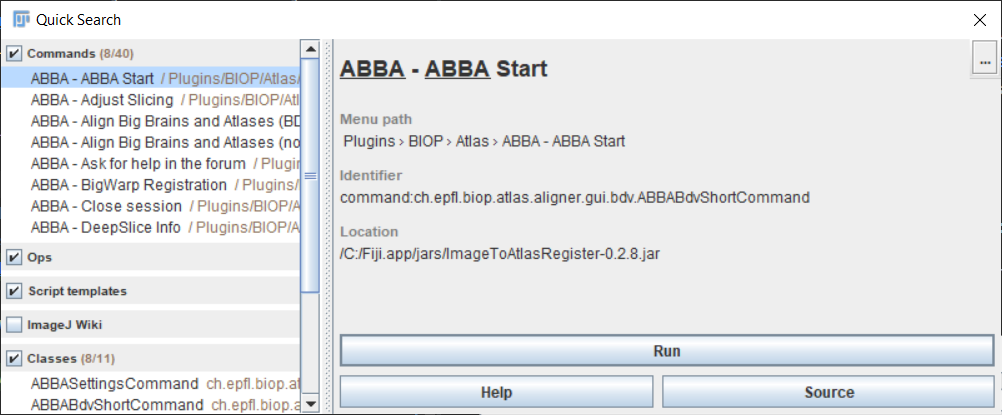
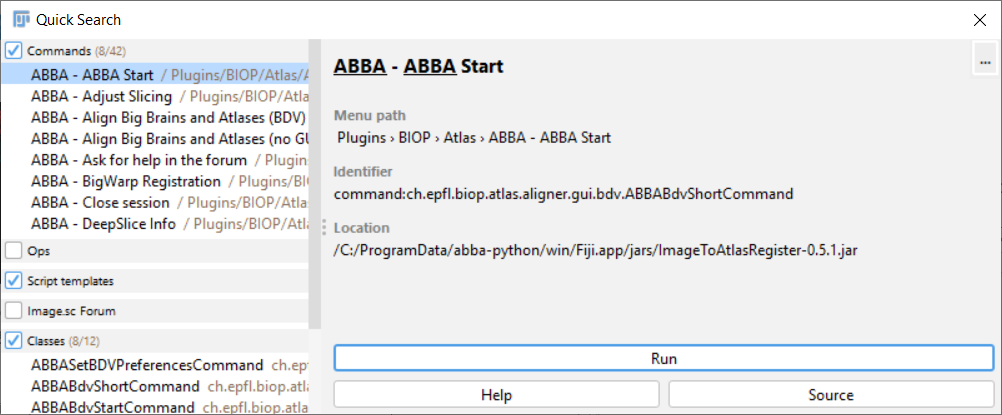
doc fix

diff --git a/installation.md b/installation.md
@@ -28,7 +28,16 @@ All Oses (Win, Mac, Linux):
 My advice : on windows, use the installer. Otherwise, use automated bash scripts. Troubleshoot issues by reading the manual installation.
 ## Standalone installer
 
-A [windows installer](https://github.com/NicoKiaru/ABBA-Python/releases/tag/v0.5.1-win) exists, which is still in its early phase of testing (released March 2023). This is by far the easiest way to install ABBA. It also brings the advantage of including DeepSlice and BrainGlobe directly into ABBA, because it ships a suitable conda environment in parallel with Fiji. 
+A [windows installer](https://github.com/NicoKiaru/ABBA-Python/releases/tag/v0.5.1-win) exists, which is still in its early phase of testing (released March 2023). This is by far the easiest way to install ABBA. It also brings the advantage of including DeepSlice and BrainGlobe directly into ABBA, because it ships a suitable conda environment in parallel with Fiji, and uses [PyImageJ](https://pyimagej.readthedocs.io/en/latest/) to communicate between both.
+
+This installer do not install QuPath and its extensions. To install these:
+
+* Install [Git for Windows](https://gitforwindows.org/) with standard options (just hit next on the installer)
+* Download the [install scripts](https://github.com/BIOP/biop-bash-scripts/archive/refs/heads/main.zip) that comes from [this repository](https://github.com/BIOP/biop-bash-scripts)
+* Unzip them
+* Double click on the script `full_install_abba.sh`
+* It is recommended to choose `C:/` as the install path
+* Wait until the script ends
 
 ## Automated installation
 
@@ -38,7 +47,7 @@ You will need a decent internet connection! Several gigabytes need to be downloa
 ### For Windows
 
 * Install [Git for Windows](https://gitforwindows.org/) with standard options (just hit next on the installer)
-* Download the [install scripts](https://github.com/BIOP/biop-bash-scripts/archive/refs/heads/main.zip)
+* Download the [install scripts](https://github.com/BIOP/biop-bash-scripts/archive/refs/heads/main.zip) that comes from [this repository](https://github.com/BIOP/biop-bash-scripts)
 * Unzip them
 * Double click on the script `full_install_abba.sh`
 * It is recommended to choose `C:/` as the install path
@@ -159,11 +168,15 @@ These are the two atlases present by default. If this is the first time you laun
 
 ![Allen atlas download progress bar](./assets/img/fiji_atlas_download_progress_bar.png)
 
-The allen brain atlas and associated files will be cached in your user folder under the directory `\cached_atlas`. These data are directly  downloaded from zenodo repositories:
+The allen brain atlas and associated files will be cached:
+* in your user folder under the directory `\cached_atlas` (Allen Brain CCFv3 and Waxholm Rat v4) (in `C:\ProgramData\abba-atlas` if you used the windows installer)
+* in your user folder under the directory `\.brainglobe` for brainglobe atlases
+
+For non-brainglobe atlases, data are downloaded from zenodo repositories:
 - [Mouse atlas repository](https://zenodo.org/record/4486659#.YnfL81RBziE)
 - [Rat atlas repository](https://zenodo.org/record/5644162#.YZrUnroo8uU)
 
-If the initial atlas download failed, because you had no access to internet or for any other reason, you can restart the command and let empty fields to trigger again the download from Zenodo.
+If the initial atlas download failed, because you had no access to internet or for any other reason, you can restart the command to trigger again the download from Zenodo.
 
 -----
 [**Back to documentation main page**](index.md)

diff --git a/dataset_prerequisite.md b/dataset_prerequisite.md
@@ -7,12 +7,12 @@
 
 
 ABBA can read data [from many sources](dataset_prerequisite.md#more-technicalities), but these two sources are the most commonly used:
-- Bio-Formats compatible files
+- [Bio-Formats](https://bio-formats.readthedocs.io/en/latest/supported-formats.html) compatible files
 - Images from an [OMERO](https://www.openmicroscopy.org/omero/) database
 
 This section deals with the file formats requirements. 
 
-:warn: While ABBA can [open files directly](TODO), it is highly recommended to package all files from a single animal into a QuPath project, as explained in the [create QuPath dataset section](create_qupath_dataset.md).
+:warning: While ABBA can [open files directly](import_qupath_project.html#direct-opening-of-a-file), it is highly recommended to package all files from a single animal into a QuPath project, as explained in the [create QuPath dataset section](create_qupath_dataset.md).
 
 In short ABBA can use any [Bio-Formats supported file format](dataset_prerequisite.md#1-any-bio-formats-supported-file-format), [ideally multi-resolution](dataset_prerequisite.md#2-ideally-multi-resolution--bio-formats-supported--), and [calibrated](dataset_prerequisite.md#3-and-calibrated).
 
@@ -43,7 +43,7 @@ RGB images as well as fluorescent 8-bits and 16-bits images have been successful
 
 ## 3. and calibrated.
 
-All files need to be properly calibrated (microns, millimeters, etc, but not pixels!). ABBA takes advantage of the  calibration to set appropriate registration parameters. To knoe if your images are properly calibrated, you can for instance open them in QuPath, using a Bio-Formats image server, and check that the pixel size is set and correct.
+All files need to be properly calibrated (microns, millimeters, etc, but not pixels!). ABBA takes advantage of the  calibration to set appropriate registration parameters. To know if your images are properly calibrated, you can for instance open them in QuPath, using a Bio-Formats image server, and check that the pixel size is set and correct.
 
 If your images are uncalibrated, ABBA will assume that each pixel has a size of 1mm, which will lead to gigantic images. To correct for this issue, you can re-save your images with the proper metadata and make sure that the metadata is recognized by bio-formats. This can be done with [Kheops](https://github.com/BIOP/ijp-kheops), which offers an option to override the pixel size while an OME-TIFF version is re-exported.
 

diff --git a/index.md b/index.md
@@ -4,7 +4,7 @@
 
 Aligning Big Brains & Atlases or ABBA for short, is a Fiji plugin which allows to register thin serial sections to several atlases, in coronal, sagittal and horizontal orientations.
 
-Within Fiji, you have access to the [3D mouse Allen Brain atlas](http://atlas.brain-map.org/atlas?atlas=602630314), and the [Waxholm Space Atlas of the Sprague Dawley Rat Brain](https://www.nitrc.org/projects/whs-sd-atlas). With [ABBA-Python](https://github.com/NicoKiaru/ABBA-Python), you can access all [BrainGlobe atlases](https://github.com/NicoKiaru/ABBA-Python).
+Within Fiji, you have access to the [3D mouse Allen Brain atlas](http://atlas.brain-map.org/atlas?atlas=602630314), and the [Waxholm Space Atlas of the Sprague Dawley Rat Brain](https://www.nitrc.org/projects/whs-sd-atlas). With [ABBA-Python](https://github.com/NicoKiaru/ABBA-Python), you can access all [BrainGlobe atlases](https://brainglobe.info/).
 
 ABBA is typically used in conjunction with [QuPath](https://qupath.github.io): a QuPath project can serve as an input for ABBA, and the registration results can be imported back into QuPath for downstream processing.
 
@@ -22,7 +22,7 @@ It has been developed by the [BioImaging & Optics Platform](https://www.epfl.ch/
 
 ## Documentation
 
-There's three forms of documentation:
+There are three forms of documentation:
 
 ### 1. Youtube tutorial
 
